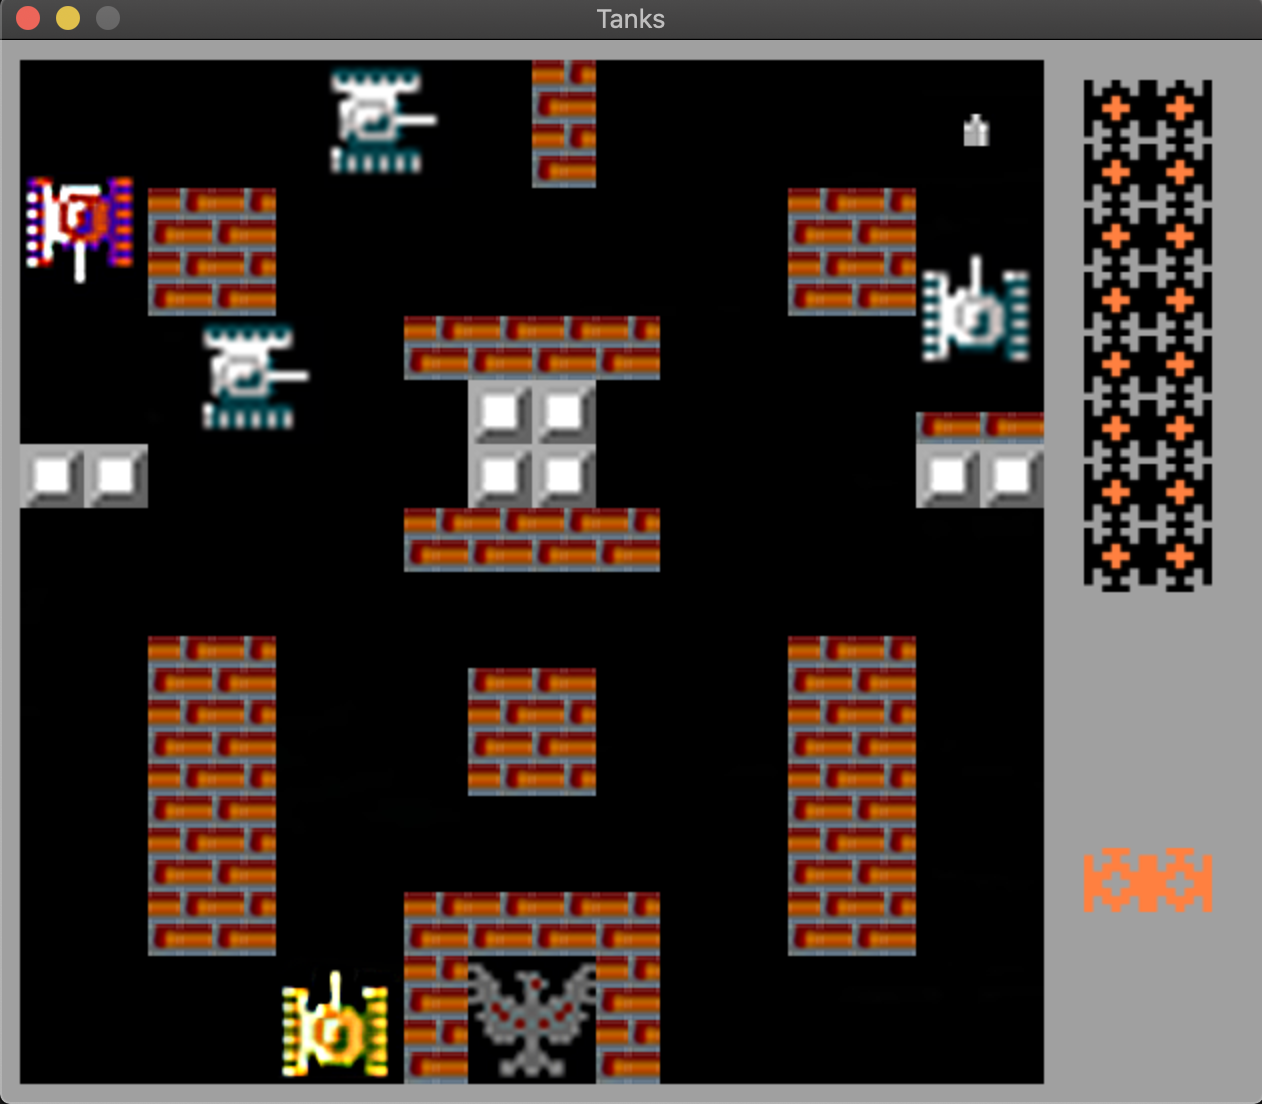
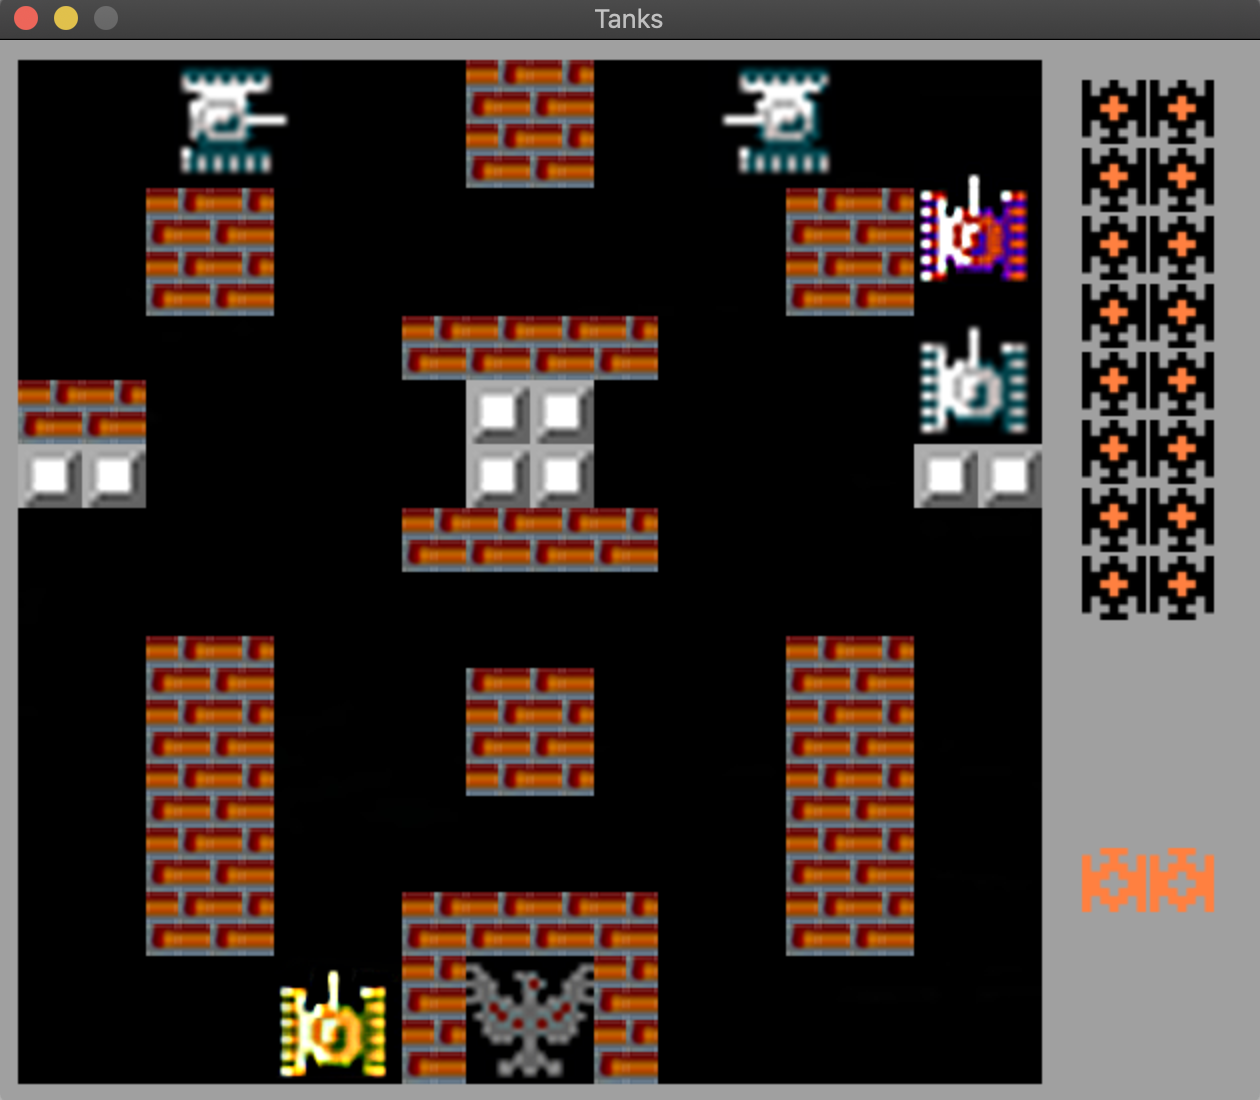
more tank types

diff --git a/Project2/src/tanks.cpp b/Project2/src/tanks.cpp
@@ -1,0 +1,109 @@
+#include "tanks.h"
+
+TankType::TankType() {
+
+}
+
+TankType::~TankType() {
+    for (auto &[key, value] : even) {
+        destroySprite(value);
+    };
+    for (auto &[key, value] : odd) {
+        destroySprite(value);
+    };
+}
+
+PlayerBaseTank::PlayerBaseTank() : TankType() {
+    even = {
+        {FRKey::UP, createSprite("Project2/data/player_base_up_even.png")},
+        {FRKey::LEFT, createSprite("Project2/data/player_base_left_even.png")},
+        {FRKey::DOWN, createSprite("Project2/data/player_base_down_even.png")},
+        {FRKey::RIGHT, createSprite("Project2/data/player_base_right_even.png")}
+    };
+    odd = {
+        {FRKey::UP, createSprite("Project2/data/player_base_up_odd.png")},
+        {FRKey::LEFT, createSprite("Project2/data/player_base_left_odd.png")},
+        {FRKey::DOWN, createSprite("Project2/data/player_base_down_odd.png")},
+        {FRKey::RIGHT, createSprite("Project2/data/player_base_right_odd.png")}
+    };
+    speed = 2;
+    max_health = 1;
+    bullet_speed = 1;
+    power = 1;
+}
+
+EnemyBaseTank::EnemyBaseTank() : TankType() {
+    even = {
+        {FRKey::UP, createSprite("Project2/data/enemy_base_up_even.png")},
+        {FRKey::LEFT, createSprite("Project2/data/enemy_base_left_even.png")},
+        {FRKey::DOWN, createSprite("Project2/data/enemy_base_down_even.png")},
+        {FRKey::RIGHT, createSprite("Project2/data/enemy_base_right_even.png")}
+    };
+    odd = {
+        {FRKey::UP, createSprite("Project2/data/enemy_base_up_odd.png")},
+        {FRKey::LEFT, createSprite("Project2/data/enemy_base_left_odd.png")},
+        {FRKey::DOWN, createSprite("Project2/data/enemy_base_down_odd.png")},
+        {FRKey::RIGHT, createSprite("Project2/data/enemy_base_right_odd.png")}
+    };
+    speed = 1;
+    max_health = 1;
+    bullet_speed = 1;
+    power = 1;
+}
+
+RadBaseTank::RadBaseTank() : TankType() {
+    even = {
+        {FRKey::UP, createSprite("Project2/data/base_red_up.png")},
+        {FRKey::LEFT, createSprite("Project2/data/base_red_left.png")},
+        {FRKey::DOWN, createSprite("Project2/data/base_red_down.png")},
+        {FRKey::RIGHT, createSprite("Project2/data/base_red_right.png")}
+    };
+    odd = {
+        {FRKey::UP, createSprite("Project2/data/enemy_base_up_odd.png")},
+        {FRKey::LEFT, createSprite("Project2/data/enemy_base_left_odd.png")},
+        {FRKey::DOWN, createSprite("Project2/data/enemy_base_down_odd.png")},
+        {FRKey::RIGHT, createSprite("Project2/data/enemy_base_right_odd.png")}
+    };
+    speed = 2;
+    max_health = 1;
+    bullet_speed = 1;
+    power = 2;
+}
+
+EnemySpeedTank::EnemySpeedTank() : TankType() {
+    even = {
+        {FRKey::UP, createSprite("Project2/data/enemy_speed_up_even.png")},
+        {FRKey::LEFT, createSprite("Project2/data/enemy_speed_left_even.png")},
+        {FRKey::DOWN, createSprite("Project2/data/enemy_speed_down_even.png")},
+        {FRKey::RIGHT, createSprite("Project2/data/enemy_speed_right_even.png")}
+    };
+    odd = {
+        {FRKey::UP, createSprite("Project2/data/enemy_speed_up_odd.png")},
+        {FRKey::LEFT, createSprite("Project2/data/enemy_speed_left_odd.png")},
+        {FRKey::DOWN, createSprite("Project2/data/enemy_speed_down_odd.png")},
+        {FRKey::RIGHT, createSprite("Project2/data/enemy_speed_right_odd.png")}
+    };
+    speed = 3;
+    max_health = 1;
+    bullet_speed = 12;
+    power = 1;
+}
+
+EnemyArmorTank::EnemyArmorTank() : TankType() {
+    even = {
+        {FRKey::UP, createSprite("Project2/data/enemy_armor_up_even.png")},
+        {FRKey::LEFT, createSprite("Project2/data/enemy_armor_left_even.png")},
+        {FRKey::DOWN, createSprite("Project2/data/enemy_armor_down_even.png")},
+        {FRKey::RIGHT, createSprite("Project2/data/enemy_armor_right_even.png")}
+    };
+    odd = {
+        {FRKey::UP, createSprite("Project2/data/enemy_armor_up_odd.png")},
+        {FRKey::LEFT, createSprite("Project2/data/enemy_armor_left_odd.png")},
+        {FRKey::DOWN, createSprite("Project2/data/enemy_armor_down_odd.png")},
+        {FRKey::RIGHT, createSprite("Project2/data/enemy_armor_right_odd.png")}
+    };
+    speed = 1;
+    max_health = 4;
+    bullet_speed = 1;
+    power = 2;
+}

diff --git a/Project2/src/my_framework.cpp b/Project2/src/my_framework.cpp
@@ -46,6 +46,8 @@ void MyFramework::CreateTanks() {
     tank_types["player_base"] = std::make_shared<PlayerBaseTank> ();
     tank_types["enemy_base"] = std::make_shared<EnemyBaseTank> ();
     tank_types["red_base"] = std::make_shared<RadBaseTank> ();
+    tank_types["enemy_speed"] = std::make_shared<EnemySpeedTank> ();
+    tank_types["enemy_armor"] = std::make_shared<EnemyArmorTank> ();
 }
 
 void MyFramework::CreateObjects() {
@@ -105,16 +107,16 @@ void MyFramework::DrawMap() {
         int x = MAP_WIDTH + BORDER_SIZE * 2;
         int y = BORDER_SIZE;
 
-        y += (i / 2) * 32;
-        x += i % 2 == 0 ? 0 : 32;
+        y += (i / 2) * 34;
+        x += i % 2 == 0 ? 0 : 34;
         drawSpriteWithBorder(sprites["e_icon"], x, y);
     }
     for (int i = 0; i < health - 1; i++) {
         int x = MAP_WIDTH + BORDER_SIZE * 2;
         int y = BORDER_SIZE + 384;
 
-        y += (i / 2) * 32;
-        x += i % 2 == 0 ? 0 : 32;
+        y += (i / 2) * 34;
+        x += i % 2 == 0 ? 0 : 34;
         drawSpriteWithBorder(sprites["p_icon"], x, y);
     }
 }
@@ -168,7 +170,7 @@ void MyFramework::Fire(Tank *tank) {
             tank->current_direction == FRKey::RIGHT) {
             if ((tank->y + tank->h /2 >= player->y && tank->y + tank->h /2 <= player->y + player->h) 
                 || (tank->y + tank->h /2 >= base->y && tank->y + tank->h /2 <= base->y + base->h)) {
-                chance = 200;
+                chance = 250;
             }
         }
 
@@ -176,7 +178,7 @@ void MyFramework::Fire(Tank *tank) {
             tank->current_direction == FRKey::DOWN) {
             if ((tank->x + tank->w / 2 >= player->x && tank->x + tank->w / 2 <= player->x + player->w) 
                 || (tank->x + tank->w / 2 >= base->x && tank->x + tank->w / 2 <= base->x + base->w)) {
-                chance = 200;
+                chance = 250;
             }
         }
 
@@ -211,12 +213,23 @@ void MyFramework::MoveTanks() {
 }
 
 void MyFramework::Spawn() {
-    //tanks
     if (avaliable_tanks && tanks.size() < MAX_TANKS_ON_BOARD && getTickCount() % 2000 == 0) {
-        std::uniform_int_distribution<> dis(0, 1);
-        int x = dis(gen) ? 0 : 28;
+        std::uniform_int_distribution<> dis(1, 100);
+        int number = dis(gen);
+        int x = number < 50 ? 0 : 28;
+        
+        std::shared_ptr<TankType> type;
+        if (number > 95) {
+            type = tank_types["enemy_armor"];
+        }
+        else if (number > 70) {
+            type = tank_types["enemy_speed"];
+        }
+        else {
+            type = tank_types["enemy_base"];
+        }
 
-        auto tank = SpawnTank(tank_types["enemy_base"], x, 0, FRKey::DOWN, Role::ENEMY);
+        auto tank = SpawnTank(type, x, 0, FRKey::DOWN, Role::ENEMY);
         if (avaliable_tanks == 17 || avaliable_tanks == 10 || avaliable_tanks == 3) {
             tank->power_up = PowerType::TANK;
             tank->SetType(tank_types["red_base"]);

diff --git a/Project2/src/objects.cpp b/Project2/src/objects.cpp
@@ -138,20 +138,6 @@ void Tank::Shoot() {
     }
 }
 
-
-TankType::TankType() {
-
-}
-
-TankType::~TankType() {
-    for (auto &[key, value] : even) {
-        destroySprite(value);
-    };
-    for (auto &[key, value] : odd) {
-        destroySprite(value);
-    };
-}
-
 BulletData::BulletData() {
     sprites = {
         {FRKey::UP, createSprite("Project2/data/u_bull.png")},
@@ -191,62 +177,4 @@ void Bullet::SetData(std::shared_ptr<BulletData> m_data) {
 
 void Bullet::ChangeSprite(FRKey k) {
     sprite = data->sprites[k];
-}
-
-
-PlayerBaseTank::PlayerBaseTank() : TankType() {
-    even = {
-        {FRKey::UP, createSprite("Project2/data/player_base_up_even.png")},
-        {FRKey::LEFT, createSprite("Project2/data/player_base_left_even.png")},
-        {FRKey::DOWN, createSprite("Project2/data/player_base_down_even.png")},
-        {FRKey::RIGHT, createSprite("Project2/data/player_base_right_even.png")}
-    };
-    odd = {
-        {FRKey::UP, createSprite("Project2/data/player_base_up_odd.png")},
-        {FRKey::LEFT, createSprite("Project2/data/player_base_left_odd.png")},
-        {FRKey::DOWN, createSprite("Project2/data/player_base_down_odd.png")},
-        {FRKey::RIGHT, createSprite("Project2/data/player_base_right_odd.png")}
-    };
-    speed = 2;
-    max_health = 1;
-    bullet_speed = 1;
-    power = 1;
-}
-
-EnemyBaseTank::EnemyBaseTank() : TankType() {
-    even = {
-        {FRKey::UP, createSprite("Project2/data/enemy_base_up_even.png")},
-        {FRKey::LEFT, createSprite("Project2/data/enemy_base_left_even.png")},
-        {FRKey::DOWN, createSprite("Project2/data/enemy_base_down_even.png")},
-        {FRKey::RIGHT, createSprite("Project2/data/enemy_base_right_even.png")}
-    };
-    odd = {
-        {FRKey::UP, createSprite("Project2/data/enemy_base_up_odd.png")},
-        {FRKey::LEFT, createSprite("Project2/data/enemy_base_left_odd.png")},
-        {FRKey::DOWN, createSprite("Project2/data/enemy_base_down_odd.png")},
-        {FRKey::RIGHT, createSprite("Project2/data/enemy_base_right_odd.png")}
-    };
-    speed = 1;
-    max_health = 1;
-    bullet_speed = 1;
-    power = 1;
-}
-
-RadBaseTank::RadBaseTank() : TankType() {
-    even = {
-        {FRKey::UP, createSprite("Project2/data/base_red_up.png")},
-        {FRKey::LEFT, createSprite("Project2/data/base_red_left.png")},
-        {FRKey::DOWN, createSprite("Project2/data/base_red_down.png")},
-        {FRKey::RIGHT, createSprite("Project2/data/base_red_right.png")}
-    };
-    odd = {
-        {FRKey::UP, createSprite("Project2/data/enemy_base_up_odd.png")},
-        {FRKey::LEFT, createSprite("Project2/data/enemy_base_left_odd.png")},
-        {FRKey::DOWN, createSprite("Project2/data/enemy_base_down_odd.png")},
-        {FRKey::RIGHT, createSprite("Project2/data/enemy_base_right_odd.png")}
-    };
-    speed = 2;
-    max_health = 1;
-    bullet_speed = 1;
-    power = 2;
 }

diff --git a/Project2/inc/objects.h b/Project2/inc/objects.h
@@ -6,6 +6,7 @@
 #include <unordered_map>
 
 #include "Framework.h"
+#include "tanks.h"
 
 class Object {	
 public:
@@ -85,41 +86,12 @@ public:
 	int step_size = 1;
 };
 
-class TankType {
-public:
-	TankType();
-	~TankType();
-
-	std::unordered_map<FRKey, Sprite *> even;
-    std::unordered_map<FRKey, Sprite *> odd;
-
-	int max_health;
-	int bullet_speed;
-	int power;
-	int speed;
-};
-
 class BulletData {
 public:
 	BulletData();
 	~BulletData();
 
 	std::unordered_map<FRKey, Sprite *> sprites;
-};
-
-class PlayerBaseTank : public TankType {
-public:
-	PlayerBaseTank();
-};
-
-class EnemyBaseTank : public TankType {
-public:
-	EnemyBaseTank();
-};
-
-class RadBaseTank : public TankType {
-public:
-	RadBaseTank();
 };
 
 class Bullet : public Movable {

diff --git a/Project2/inc/tanks.h b/Project2/inc/tanks.h
@@ -1,0 +1,47 @@
+#pragma once
+
+#include <array>
+#include <memory>
+#include <iostream>
+#include <unordered_map>
+
+#include "Framework.h"
+
+class TankType {
+public:
+	TankType();
+	~TankType();
+
+	std::unordered_map<FRKey, Sprite *> even;
+    std::unordered_map<FRKey, Sprite *> odd;
+
+	int max_health;
+	int bullet_speed;
+	int power;
+	int speed;
+};
+
+class PlayerBaseTank : public TankType {
+public:
+	PlayerBaseTank();
+};
+
+class EnemyBaseTank : public TankType {
+public:
+	EnemyBaseTank();
+};
+
+class EnemySpeedTank : public TankType {
+public:
+	EnemySpeedTank();
+};
+
+class EnemyArmorTank : public TankType {
+public:
+	EnemyArmorTank();
+};
+
+class RadBaseTank : public TankType {
+public:
+	RadBaseTank();
+};
